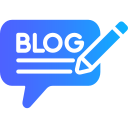
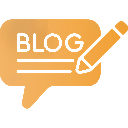
Ajout de fichiers

diff --git a/public/style.css b/public/style.css
@@ -1,7 +1,28 @@
+:root {
+    --couleur-primaire: #ddad4a;
+    --bordures: #d1d1d1;
+    --image-background-site: url('/images/background.jpg');
+}
 .navbar img {
     max-height: 80px;
 }
+body {
+    background-image: var(--image-background-site);
+    background-size: cover;
+    background-repeat: no-repeat;
+}
 .article {
-    border: 2px solid #d1d1d1;
+    border: 2px solid var(--bordures);
     border-radius: 5px;
+    background-color: rgba(255, 255, 255, 0.7);
+}
+
+.btn-primary {
+    background-color: var(--couleur-primaire) !important;
+    border-color: var(--couleur-primaire) !important;
+}
+
+.thumbnail img {
+    max-width: 80px;
+    margin: 10px;
 }

diff --git a/app/views/articleForm.php b/app/views/articleForm.php
@@ -5,13 +5,53 @@ include('includes/header.inc.php');
 <h1 class="text-center">Nouvelle publication</h1>
     <div class="row">
         <div class="col-12 col-md-6 offset-md-3">
-            <form method="POST" action="/add">
+            <form method="POST" action="/add" enctype="multipart/form-data">
                 <input class="form-control" type="text" name="articleTitre" placeholder="Titre du nouvel article"/><br>
                 <textarea class="form-control" name="articleContenu" placeholder="Contenu du nouvel article"></textarea><br>
+
+                <input type="file" id="photo_intro" name="photo_intro" class="d-none"/>
+                <label for="photo_intro" class="btn btn-sm btn-primary">Photo d'intro</label>
+                <div class="thumbnail">
+                    <img src="" class="img-fluid"/>
+                    <div id="img-name"></div>
+                </div>
+                <br>
+                <br>
                 <button type="submit" class="btn btn-primary">Envoyer</button>
             </form>
         </div>
     </div>
 </div>
 <?php
-include('includes/footer.inc.php'); 
+include('includes/footer.inc.php');
+?>
+<script>
+    $(function() {
+        $('#photo_intro').on('change', function() {
+            if(this.files && this.files[0]) {
+                // Ici, on sait qu'on a un fichier
+                // Donc on crée un lecteur
+                var lecteur = new FileReader();
+                // On prépare un évènement sur notre lecteur
+                // Pour lui dire de changer l'attribut src
+                // De notre image
+                lecteur.onload = function(event) {
+                    $('.thumbnail img').attr('src', event.target.result);
+                };
+                // Puis enfin, on déclenche notre évènement : 
+                lecteur.readAsDataURL(this.files[0]);
+
+                var filename = this.files[0].name;
+                if(filename.length > 10) {
+                    var extension = filename.split('.').pop();
+                    var nomSeul = filename.split('.').slice(0, -1).join('.');
+                    var nomAAfficher = nomSeul.substring(0, 10) + "..." + extension;
+                } else {
+                    var nomAAfficher = filename;
+                }
+                $('#img-name').html(nomAAfficher);
+
+            }
+        });
+    });
+</script>

diff --git a/app/controllers/ArticleController.php b/app/controllers/ArticleController.php
@@ -23,8 +23,25 @@ class ArticleController {
 
     // Cette fonction est appelée dans le cas /add du switch. 
     // Elle demande au modèle de gérer l'insertion d'un article
-    public function addArticle($articleTitre, $articleContenu) {
-        $this->articleModel->requeteInsertArticle($articleTitre, $articleContenu);
+    public function addArticle($articleTitre, $articleContenu, $articlePhotoIntro) {
+        // On vérifie si le fichier uploadé est bien une image
+        // En testant si son type MIME commence par "image/"
+        if(substr($articlePhotoIntro['type'], 0, 6) == "image/") {
+            // Cas où l'on a bien uploadé une image
+
+            // On copie le fichier depuis la mémoire du serveur 
+            // vers un emplacement physique
+            move_uploaded_file($articlePhotoIntro['tmp_name'], $_SERVER['DOCUMENT_ROOT'] . "/images/" . $articlePhotoIntro['name']);
+
+            // Puis on récupère son nom pour construire 
+            // le chemin vers ce fichier
+            $cheminDefinitif = "/images/" . $articlePhotoIntro['name'];
+        } else {
+            // Cas où l'on a uploadé autre chose qu'une image, 
+            // ou alors rien du tout donc on laisse le chemin à NULL
+            $cheminDefinitif = NULL;
+        }
+        $this->articleModel->requeteInsertArticle($articleTitre, $articleContenu, $cheminDefinitif);
         header('Location: /');
     }
 

diff --git a/app/models/Article.php b/app/models/Article.php
@@ -15,16 +15,17 @@ class Article {
 
     // Cette fonction permet de lister tous les articles de la base
     public function getAllArticles() {
-        $stmt = $this->db->prepare("SELECT * FROM article");
+        $stmt = $this->db->prepare("SELECT * FROM article ORDER BY id DESC");
         $stmt->execute();
         return $stmt->fetchAll(PDO::FETCH_ASSOC);
     }
 
     // Cette fonction permet d'insérer un article dans la base à l'aide des données passées par le contrôleur
-    public function requeteInsertArticle($articleTitre, $articleContenu) {
-        $stmt = $this->db->prepare("INSERT INTO article  (titre, contenu) VALUES (:titre, :contenu)");
+    public function requeteInsertArticle($articleTitre, $articleContenu, $articlePhotoIntro) {
+        $stmt = $this->db->prepare("INSERT INTO article  (titre, contenu, photo_intro) VALUES (:titre, :contenu, :photo_intro)");
         $stmt->bindParam(':titre', $articleTitre);
         $stmt->bindParam(':contenu', $articleContenu);
+        $stmt->bindParam(':photo_intro', $articlePhotoIntro);
         $stmt->execute();
     }
 

diff --git a/app/views/articleList.php b/app/views/articleList.php
@@ -16,7 +16,14 @@ include('includes/header.inc.php');
             ?>
             <div class="col-12 col-md-6 col-lg-4 my-3">
                 <div class="article text-center p-4">
-                    <?= htmlspecialchars($article['titre']); ?>
+                    <?php 
+                    if($article['photo_intro'] != NULL) {
+                        ?>
+                        <img src="<?= $article['photo_intro'] ?>" class="img-fluid"/>
+                        <?php
+                    }
+                    ?>
+                    <h4><?= htmlspecialchars($article['titre']); ?></h4>
                     <p><?= htmlspecialchars($article['contenu']) ?></p>
                     <a class="btn btn-sm btn-danger" href="/delete?id_article=<?= $article['id'] ?>">Supprimer</a>
                 </div>

diff --git a/app/views/includes/footer.inc.php b/app/views/includes/footer.inc.php
@@ -1,3 +1,4 @@
         <script src="https://cdn.jsdelivr.net/npm/bootstrap@5.3.8/dist/js/bootstrap.bundle.min.js" integrity="sha384-FKyoEForCGlyvwx9Hj09JcYn3nv7wiPVlz7YYwJrWVcXK/BmnVDxM+D2scQbITxI" crossorigin="anonymous"></script>
+        <script src="https://code.jquery.com/jquery-3.7.1.min.js" integrity="sha256-/JqT3SQfawRcv/BIHPThkBvs0OEvtFFmqPF/lYI/Cxo=" crossorigin="anonymous"></script>
     </body>
 </html>

diff --git a/public/index.php b/public/index.php
@@ -18,7 +18,7 @@ switch($request_uri[0]) {
         break;
     case "/add" : 
         // Cas où l'URI  est /add
-        $controller->addArticle($_POST['articleTitre'], $_POST['articleContenu']);
+        $controller->addArticle($_POST['articleTitre'], $_POST['articleContenu'], $_FILES['photo_intro']);
         break;
     default: 
         // Comportement par défaut

diff --git a/app/views/includes/header.inc.php b/app/views/includes/header.inc.php
@@ -9,7 +9,7 @@
 </head>
 <body>
     <header>
-        <nav class="navbar navbar-expand-lg shadow-lg">
+        <nav class="navbar navbar-expand-lg shadow-lg bg-light">
             <div class="container">
                 <!-- Élément N°1 -->
                 <a href="/">
